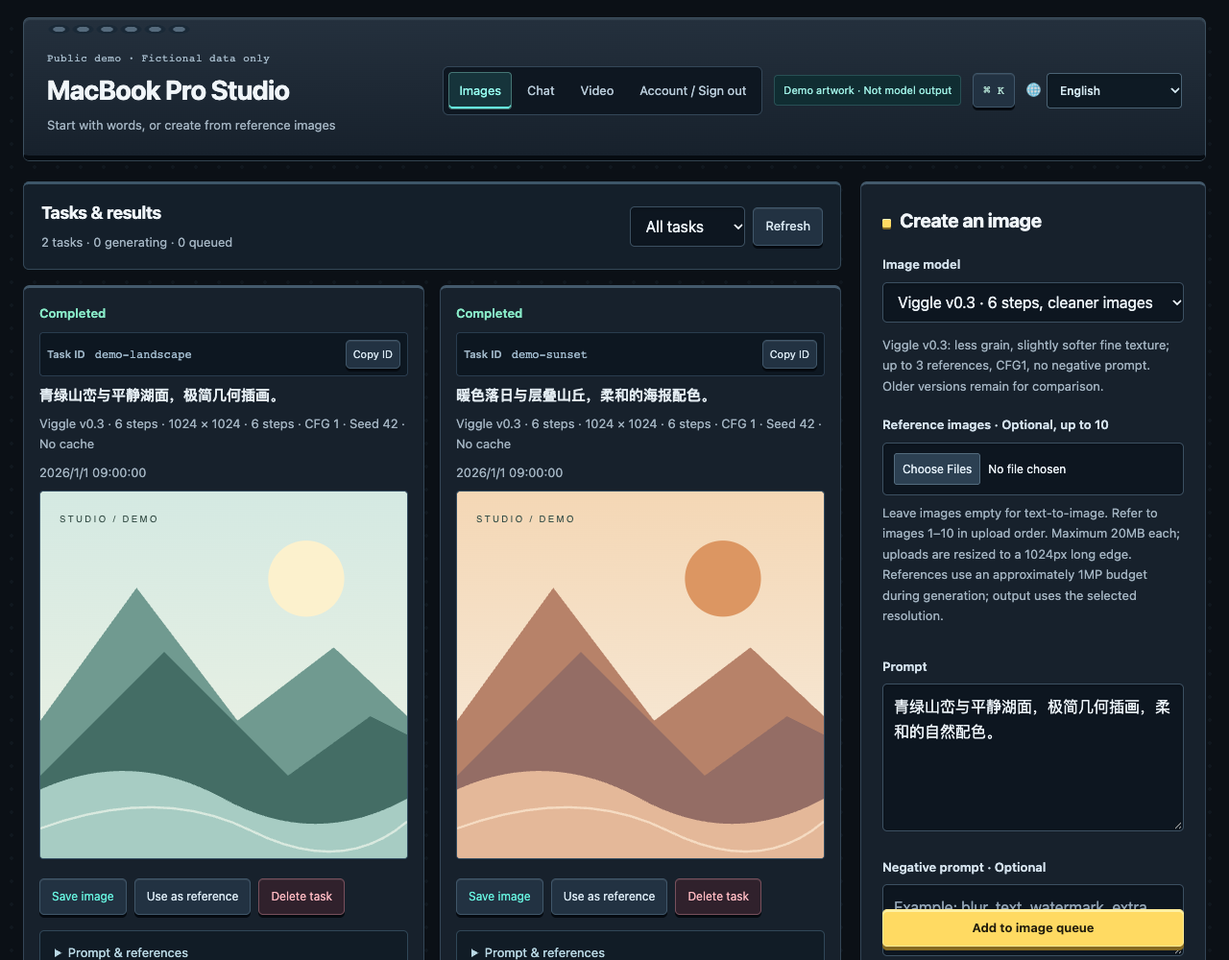
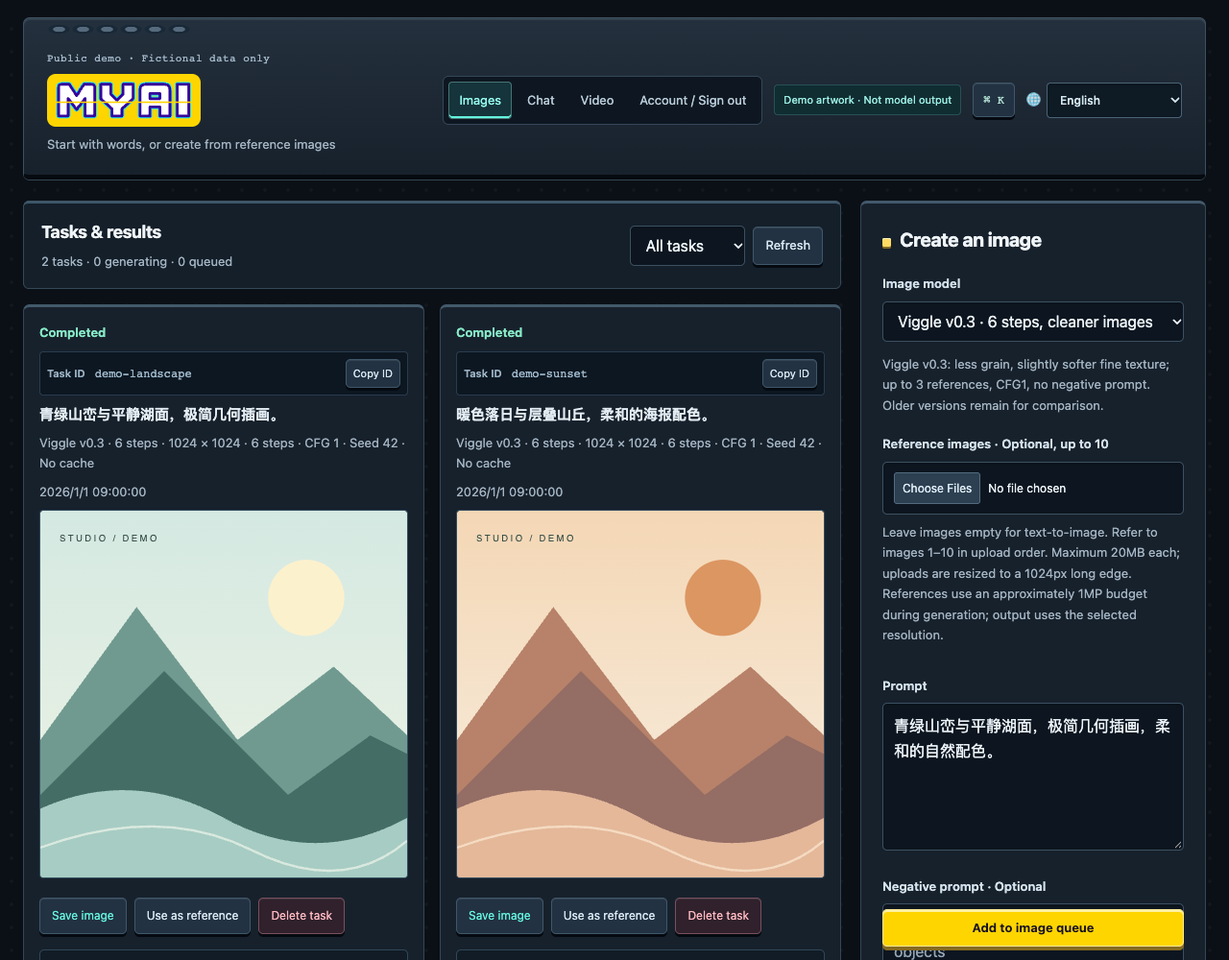
Publish MYAI branding and refreshed studio previews

diff --git a/src/video_editor.html b/src/video_editor.html
@@ -1,5 +1,5 @@
-<!doctype html><html lang="zh"><head><meta charset="utf-8"><meta name="viewport" content="width=device-width,initial-scale=1"><title>macbook pro工作室</title><style>
+<!doctype html><html lang="zh"><head><meta charset="utf-8"><meta name="viewport" content="width=device-width,initial-scale=1"><title>MYAI</title><style>
 :root{font:16px -apple-system,BlinkMacSystemFont,"Segoe UI",sans-serif;color:#23352d;background:#f4f5f0}*{box-sizing:border-box}body{margin:0}header{max-width:1440px;margin:32px auto 24px;padding:0 28px;display:flex;justify-content:space-between;align-items:center;gap:16px}h1{font-size:28px;margin:4px 0 8px}h2{font-size:20px;margin:0 0 16px}p{line-height:1.6}small,.muted{color:#64756c;font-size:13px}.badge{background:#e0ecdf;padding:8px 12px;border-radius:30px;font-size:13px}.header-actions{display:flex;align-items:center;gap:14px}.entry-nav{display:flex;gap:4px;padding:4px;border:1px solid #dce3da;background:#fff;border-radius:12px}.entry-link{color:#42564b;text-decoration:none;font-size:13px;padding:8px 12px;border-radius:8px;white-space:nowrap}.entry-link:hover{background:#eff3ec}.entry-link.active{background:#275c43;color:#fff}.layout{display:grid;grid-template-columns:370px 1fr;gap:24px;max-width:1440px;margin:auto;padding:0 28px 48px}.panel,.card{background:white;border:1px solid #dce3da;border-radius:18px;padding:22px}.panel{align-self:start}label{display:block;font-weight:600;font-size:14px;margin:20px 0 8px}input,textarea,select{width:100%;font:inherit;border:1px solid #cbd5ca;border-radius:9px;background:#fff;padding:11px;color:inherit}textarea{resize:vertical;line-height:1.5}button,.button{font:inherit;font-size:14px;cursor:pointer;border:1px solid #cbd5ca;border-radius:9px;padding:10px 14px;background:#fff;color:inherit;text-decoration:none;display:inline-block}button:hover,.button:hover{background:#eff3ec}button:disabled{opacity:.55;cursor:wait}.primary{background:#275c43;color:#fff;border:0;padding:14px;width:100%;font-weight:600;margin-top:22px}.primary:hover{background:#204d38}.danger{color:#a53737;border-color:#e7caca}.grid2{display:grid;grid-template-columns:1fr 1fr;gap:12px}.toolbar{display:flex;justify-content:space-between;align-items:center;gap:12px;flex-wrap:wrap;margin-bottom:16px}.toolbar h2{margin:0}.tasks{display:grid;grid-template-columns:repeat(auto-fill,minmax(270px,1fr));gap:16px;align-items:start}.card{padding:16px;min-width:0}.card h3{font-size:15px;line-height:1.5;margin:8px 0;overflow-wrap:anywhere}.card p{margin:8px 0}.card .preview{width:100%;max-height:400px;object-fit:contain;background:#f3f4f0;border-radius:10px;cursor:zoom-in}.actions{display:flex;gap:8px;flex-wrap:wrap;margin-top:12px}.state{font-size:13px;font-weight:600;color:#316047}.failed{color:#a53737}progress{width:100%;height:8px;accent-color:#356649}.refs{display:flex;gap:8px;flex-wrap:wrap;margin-top:12px}.ref{width:calc(33.333% - 6px);margin:0}.ref img{width:100%;height:88px;object-fit:cover;border-radius:8px;cursor:zoom-in}.ref figcaption{font-size:12px;margin:5px 0}.ref button{font-size:12px;padding:4px 8px}details{font-size:13px;margin-top:12px}summary{cursor:pointer}details pre{white-space:pre-wrap;word-break:break-word;font:inherit;background:#f4f5f0;padding:10px;border-radius:8px}.inline-confirm{margin-top:12px;border:1px solid #ebd4cf;background:#fff8f5;padding:12px;border-radius:10px;font-size:13px}.empty{padding:50px 20px;text-align:center;border:1px dashed #bbcabb;border-radius:14px;color:#64756c}.notice{font-size:13px;margin-top:12px;line-height:1.6;overflow-wrap:anywhere}dialog{border:0;border-radius:16px;padding:18px;max-width:95vw;max-height:95vh;background:#fff}dialog::backdrop{background:#14231de0}dialog img{display:block;max-width:85vw;max-height:80vh;object-fit:contain}dialog button{float:right;margin-bottom:10px}[hidden]{display:none!important}.selected{outline:2px solid #6d9979}#filter{width:auto;min-width:110px}#more{margin-top:20px}@media(max-width:850px){header{padding:0 16px;flex-wrap:wrap}.layout{grid-template-columns:1fr;padding:0 16px 32px}.panel{position:static}.tasks{grid-template-columns:repeat(auto-fill,minmax(260px,1fr))}.badge{display:none}}
-.task-identity{display:flex;flex-wrap:wrap;align-items:center;gap:6px;margin-top:10px}.task-identity label{margin:0;font-size:12px}.task-identity input{flex:1 1 270px;min-width:0;font:12px ui-monospace,monospace;padding:7px}.task-identity button{font-size:12px;padding:7px}#lightbox{width:94vw;overflow:hidden}.preview-toolbar{display:flex;align-items:center;gap:8px;flex-wrap:wrap;margin-bottom:12px}.preview-toolbar button{float:none;margin:0}.preview-toolbar [aria-pressed="true"]{background:#275c43;color:white}#preview-viewport{width:100%;height:75vh;overflow:auto;background:#f3f4f0}#large-image{width:auto;height:auto;max-width:100%;max-height:100%;margin:auto;object-fit:contain}#lightbox.actual-size #large-image{max-width:none;max-height:none;margin:0} video{width:100%;border-radius:10px;background:#f3f4f0}.prompt-text{white-space:pre-wrap;overflow-wrap:anywhere}@media(max-width:550px){.entry-link{padding:8px;font-size:12px}.header-actions{width:100%}}.settings{margin-top:22px;padding:16px;border:1px solid #dce3da;border-radius:14px;background:#f8faf6}.settings h2{font-size:17px}.resolution-grid{display:grid;grid-template-columns:1fr 1fr;gap:8px}.resolution-grid button{padding:12px 8px;text-align:center}.resolution-grid span{display:block;margin-top:6px;font-size:12px;color:#64756c}.selected-tier{border:2px solid #275c43!important;background:#eaf2e7!important}.setting-row{display:flex;align-items:center;justify-content:space-between;margin-top:18px;font-size:14px;font-weight:600}.setting-row input{width:38px;height:20px}#duration{padding:0;accent-color:#275c43}#duration-label{float:right;background:#e7eee3;border-radius:8px;padding:4px 8px;font-size:13px}#settings-error:empty{display:none}#reset-settings{margin-top:10px}</style><script src="/auth-guard.js"></script><link rel="stylesheet" href="/i18n.css"><script src="/i18n.js" defer></script><link rel="stylesheet" href="/studio-theme.css"><script src="/studio-shell.js" defer></script></head><body class="brick-studio studio-video">
-<header><div><small>MiniMax-H3 · 本机运行</small><h1>macbook pro工作室</h1><span class="muted">用文字生成一段动态小样</span></div><div class="header-actions"><nav class="entry-nav" aria-label="本地工具入口"><a class="entry-link" href="/edit">图片生成</a><a class="entry-link" href="/chat">文字对话</a><a class="entry-link active" aria-current="page" href="/video">视频生成</a><a class="entry-link" href="/account">账号 / 退出</a></nav><span class="badge">仅本机访问</span></div></header>
+.task-identity{display:flex;flex-wrap:wrap;align-items:center;gap:6px;margin-top:10px}.task-identity label{margin:0;font-size:12px}.task-identity input{flex:1 1 270px;min-width:0;font:12px ui-monospace,monospace;padding:7px}.task-identity button{font-size:12px;padding:7px}#lightbox{width:94vw;overflow:hidden}.preview-toolbar{display:flex;align-items:center;gap:8px;flex-wrap:wrap;margin-bottom:12px}.preview-toolbar button{float:none;margin:0}.preview-toolbar [aria-pressed="true"]{background:#275c43;color:white}#preview-viewport{width:100%;height:75vh;overflow:auto;background:#f3f4f0}#large-image{width:auto;height:auto;max-width:100%;max-height:100%;margin:auto;object-fit:contain}#lightbox.actual-size #large-image{max-width:none;max-height:none;margin:0} video{width:100%;border-radius:10px;background:#f3f4f0}.prompt-text{white-space:pre-wrap;overflow-wrap:anywhere}@media(max-width:550px){.entry-link{padding:8px;font-size:12px}.header-actions{width:100%}}.settings{margin-top:22px;padding:16px;border:1px solid #dce3da;border-radius:14px;background:#f8faf6}.settings h2{font-size:17px}.resolution-grid{display:grid;grid-template-columns:1fr 1fr;gap:8px}.resolution-grid button{padding:12px 8px;text-align:center}.resolution-grid span{display:block;margin-top:6px;font-size:12px;color:#64756c}.selected-tier{border:2px solid #275c43!important;background:#eaf2e7!important}.setting-row{display:flex;align-items:center;justify-content:space-between;margin-top:18px;font-size:14px;font-weight:600}.setting-row input{width:38px;height:20px}#duration{padding:0;accent-color:#275c43}#duration-label{float:right;background:#e7eee3;border-radius:8px;padding:4px 8px;font-size:13px}#settings-error:empty{display:none}#reset-settings{margin-top:10px}</style><script src="/auth-guard.js"></script><link rel="stylesheet" href="/i18n.css"><script src="/i18n.js" defer></script><link rel="stylesheet" href="/studio-theme.css"><script src="/studio-shell.js" defer></script><link rel="icon" href="/myai-icon.svg" type="image/svg+xml"></head><body class="brick-studio studio-video">
+<header><div><small>MiniMax-H3 · 本机运行</small><h1><img class="myai-logo" src="/myai-logo.svg" alt="MYAI" width="160" height="55" translate="no"></h1><span class="muted">用文字生成一段动态小样</span></div><div class="header-actions"><nav class="entry-nav" aria-label="本地工具入口"><a class="entry-link" href="/edit">图片生成</a><a class="entry-link" href="/chat">文字对话</a><a class="entry-link active" aria-current="page" href="/video">视频生成</a><a class="entry-link" href="/account">账号 / 退出</a></nav><span class="badge">仅本机访问</span></div></header>
 <main class="layout"><section class="panel"><h2>创建视频</h2><details class="studio-spec"><summary>官方规格与本机实验</summary><aside id="official-spec" class="notice"><strong>官方规格与本机实验</strong><p>MiniMax H3官方：4–15秒，默认短边768像素，24fps，32kHz立体声。官方推荐的ComfyUI基础流程：20步、res_multistep / simple；FL2VA短小样默认4步Euler，Ref2VA使用20步res_multistep；4B编码器与低分辨率结果不代表完整官方质量。</p><p>当前已装FL2VA：0张文生视频，1张首帧或尾帧，2张首尾帧。Ref2VA是另一个模型，最多9张参考图（不是10张），独立安装并校验后可在下方选择；首尾帧与多参考图分开使用。</p><p>官方编码器为Qwen3-VL-32B；本机使用4B + ClipProj社区替代方案。496×864来自界面参考图，不是官方768p；15秒本机实测未通过。官方2K再生成模块未开源，本页未实现。</p><a href="https://github.com/MiniMax-AI/MiniMax-H3#system-overview" target="_blank" rel="noreferrer">MiniMax官方规格</a> · <a href="https://docs.comfy.org/tutorials/video/minimax/minimax-h3" target="_blank" rel="noreferrer">官方推荐的ComfyUI教程</a></aside></details><form id="form"><label for="prompt">视频提示词</label><textarea id="prompt" rows="6" required maxlength="1500" placeholder="描述主体、动作、场景和镜头。例如：A red ball slowly rolls across a plain wooden table. Locked camera, soft daylight, no text."></textarea><p class="muted">首轮建议使用简短英文动作描述；中文效果尚未单独验证。</p><section class="settings" aria-label="视频设置"><h2>视频设置</h2><label for="ratio">视频比例</label><select id="ratio"><option value="1:1">1:1 · 方形</option><option value="16:9">16:9 · 横屏</option><option value="21:9">21:9 · 宽银幕</option><option value="4:3">4:3 · 横幅</option><option value="3:4">3:4 · 竖幅</option><option value="9:16">9:16 · 竖屏</option></select><label>分辨率档位</label><div class="resolution-grid"><button type="button" class="resolution-choice selected-tier" data-resolution="sample" aria-pressed="true">小样<span id="sample-pixels">256 × 256</span></button><button type="button" class="resolution-choice" data-resolution="standard" aria-pressed="false">参考图标准<span id="standard-pixels">656 × 656</span></button><button type="button" class="resolution-choice" data-resolution="hd" aria-pressed="false" disabled>HD · 已测小样<span>1280×736 · 16:9 / 0.92秒 / 无声</span></button><button type="button" disabled>Full HD<span>暂未验证，尚未开放</span></button></div><p id="pixels-note" class="muted"></p><label for="duration">视频时长 <output id="duration-label" for="duration">0.92 秒</output></label><input id="duration" type="range" min="0" max="7" step="1" value="0"><p id="frames-note" class="muted"></p><p id="settings-error" class="notice failed" role="status"></p><div class="setting-row"><span>音频</span><input id="audio" type="checkbox" role="switch" aria-label="生成原生音频"></div><p class="muted">音频开放1:1小样及496×864标准竖屏的0.92秒短例，默认关闭；音效质量与动作同步仍需听审。15秒标准竖屏带音频已实测未通过，触发新增交换4GiB保护，当前禁用；低负载档单列为小样。30秒不开放。HD仅开放16:9、0.92秒无声小样，实测约5分9秒；1280×736为模型32像素对齐尺寸。</p><div class="setting-row"><span>隐私</span><span class="muted">本机计算与保存</span></div><p class="muted">提示词与视频不上传外部服务；无需付费。本功能仅能在这台Mac访问。</p><button id="reset-settings" type="button">↶ 重置设置</button></section><label for="model-variant">视频模型</label><select id="model-variant"><option value="fl2va">FL2VA · 首尾帧（最多2张）</option><option value="ref2va">Ref2VA · 多参考图（最多9张）</option></select><p id="model-status" class="notice" role="status"></p><div id="keyframe-panel"><label>参考图 · 首尾帧（可选，最多2张）</label><p class="muted">首帧决定视频起始画面，尾帧决定结束画面；可只选其中一张。不是多图角色参考模式。建议图片与输出比例一致：模型首帧拉伸、尾帧居中裁切。支持PNG/JPEG/WebP，单张最多10MB，上传前缩至最长边2048。</p><div class="grid2"><div><label for="first-frame">首帧</label><input id="first-frame" type="file" accept="image/png,image/jpeg,image/webp"><img id="first-preview" alt="首帧预览" style="width:100%" hidden><button type="button" id="remove-first">移除首帧</button></div><div><label for="last-frame">尾帧</label><input id="last-frame" type="file" accept="image/png,image/jpeg,image/webp"><img id="last-preview" alt="尾帧预览" style="width:100%" hidden><button type="button" id="remove-last">移除尾帧</button></div></div><button type="button" id="swap-refs">交换首尾</button> <button type="button" id="clear-refs">清空参考图</button></div><div id="multi-panel" hidden><label for="multi-refs">多参考图（最多9张）</label><input id="multi-refs" type="file" accept="image/png,image/jpeg,image/webp" multiple><p class="muted">按排列顺序对应 &lt;Picture 1&gt; 至 &lt;Picture 9&gt;，可在提示词中指定人物、物品或风格。参考图按输出面积缩小以节约内存。已完成9图、256×256、22帧（0.92秒）、20步无声测试，约5分52秒。样片为同一红球场景的9张图，仍有形变；不同人物身份保持、音频及长视频组合尚未验收。</p><div id="multi-previews" class="refs"></div><button id="clear-multi" type="button">清空多参考图</button></div><p id="refs-status" class="notice" role="status"></p><label for="seed">随机种子</label><input id="seed" type="number" min="0" max="2147483647" value="42" required><button id="submit" class="primary" aria-describedby="submit-reason">加入视频队列</button><p id="submit-reason" class="notice failed" role="status" aria-live="polite"></p><p id="status" class="notice" role="status" aria-live="polite"></p></form><p class="muted">视频与图文计算串行运行，最多3个待处理视频。仅当本任务临时卸载了原本已加载的空闲文字模型，结束后才恢复；原本未加载的文字模型不会自动加载。启动需至少56GiB可用内存；运行时保留16GiB并监测交换增长。不同模型、参考图数量和尺寸耗时不同；Ref2VA九图短例实测约5分52秒，不代表长片耗时。</p></section><section><div class="toolbar"><div><h2>任务与结果</h2><p id="counts" class="muted">正在读取…</p></div><div><select id="video-filter" aria-label="筛选视频任务" style="width:auto"><option value="all">全部任务</option><option value="completed">已完成</option><option value="active">进行中</option><option value="failed">失败 / 已停止</option></select><button id="refresh">刷新</button></div></div><p id="load-error" class="notice failed" role="status"></p><div id="tasks" class="tasks"></div></section></main><script type="module" src="/video.js"></script></body></html>

diff --git a/src/image_editor.html b/src/image_editor.html
@@ -1,9 +1,9 @@
 <!doctype html>
-<html lang="zh"><head><meta charset="utf-8"><meta name="viewport" content="width=device-width,initial-scale=1"><title>macbook pro工作室</title>
+<html lang="zh"><head><meta charset="utf-8"><meta name="viewport" content="width=device-width,initial-scale=1"><title>MYAI</title>
 <style>
 :root{font:16px -apple-system,BlinkMacSystemFont,"Segoe UI",sans-serif;color:#23352d;background:#f4f5f0}*{box-sizing:border-box}body{margin:0}header{max-width:1440px;margin:32px auto 24px;padding:0 28px;display:flex;justify-content:space-between;align-items:center;gap:16px}h1{font-size:28px;margin:4px 0 8px}h2{font-size:20px;margin:0 0 16px}p{line-height:1.6}small,.muted{color:#64756c;font-size:13px}.badge{background:#e0ecdf;padding:8px 12px;border-radius:30px;font-size:13px}.header-actions{display:flex;align-items:center;gap:14px}.entry-nav{display:flex;gap:4px;padding:4px;border:1px solid #dce3da;background:#fff;border-radius:12px}.entry-link{color:#42564b;text-decoration:none;font-size:13px;padding:8px 12px;border-radius:8px;white-space:nowrap}.entry-link:hover{background:#eff3ec}.entry-link.active{background:#275c43;color:#fff}.layout{display:grid;grid-template-columns:370px 1fr;gap:24px;max-width:1440px;margin:auto;padding:0 28px 48px}.panel,.card{background:white;border:1px solid #dce3da;border-radius:18px;padding:22px}.panel{align-self:start}label{display:block;font-weight:600;font-size:14px;margin:20px 0 8px}input,textarea,select{width:100%;font:inherit;border:1px solid #cbd5ca;border-radius:9px;background:#fff;padding:11px;color:inherit}textarea{resize:vertical;line-height:1.5}button,.button{font:inherit;font-size:14px;cursor:pointer;border:1px solid #cbd5ca;border-radius:9px;padding:10px 14px;background:#fff;color:inherit;text-decoration:none;display:inline-block}button:hover,.button:hover{background:#eff3ec}button:disabled{opacity:.55;cursor:wait}.primary{background:#275c43;color:#fff;border:0;padding:14px;width:100%;font-weight:600;margin-top:22px}.primary:hover{background:#204d38}.danger{color:#a53737;border-color:#e7caca}.grid2{display:grid;grid-template-columns:1fr 1fr;gap:12px}.toolbar{display:flex;justify-content:space-between;align-items:center;gap:12px;flex-wrap:wrap;margin-bottom:16px}.toolbar h2{margin:0}.tasks{display:grid;grid-template-columns:repeat(auto-fill,minmax(270px,1fr));gap:16px;align-items:start}.card{padding:16px;min-width:0}.card h3{font-size:15px;line-height:1.5;margin:8px 0;overflow-wrap:anywhere}.card p{margin:8px 0}.card .preview{width:100%;max-height:400px;object-fit:contain;background:#f3f4f0;border-radius:10px;cursor:zoom-in}.actions{display:flex;gap:8px;flex-wrap:wrap;margin-top:12px}.state{font-size:13px;font-weight:600;color:#316047}.failed{color:#a53737}progress{width:100%;height:8px;accent-color:#356649}.refs{display:flex;gap:8px;flex-wrap:wrap;margin-top:12px}.ref{width:calc(33.333% - 6px);margin:0}.ref img{width:100%;height:88px;object-fit:cover;border-radius:8px;cursor:zoom-in}.ref figcaption{font-size:12px;margin:5px 0}.ref button{font-size:12px;padding:4px 8px}details{font-size:13px;margin-top:12px}summary{cursor:pointer}details pre{white-space:pre-wrap;word-break:break-word;font:inherit;background:#f4f5f0;padding:10px;border-radius:8px}.inline-confirm{margin-top:12px;border:1px solid #ebd4cf;background:#fff8f5;padding:12px;border-radius:10px;font-size:13px}.empty{padding:50px 20px;text-align:center;border:1px dashed #bbcabb;border-radius:14px;color:#64756c}.notice{font-size:13px;margin-top:12px;line-height:1.6;overflow-wrap:anywhere}dialog{border:0;border-radius:16px;padding:18px;max-width:95vw;max-height:95vh;background:#fff}dialog::backdrop{background:#14231de0}dialog img{display:block;max-width:85vw;max-height:80vh;object-fit:contain}dialog button{float:right;margin-bottom:10px}[hidden]{display:none!important}.selected{outline:2px solid #6d9979}#filter{width:auto;min-width:110px}#more{margin-top:20px}@media(max-width:850px){header{padding:0 16px;flex-wrap:wrap}.layout{grid-template-columns:1fr;padding:0 16px 32px}.panel{position:static}.tasks{grid-template-columns:repeat(auto-fill,minmax(260px,1fr))}.badge{display:none}}
-.task-identity{display:flex;flex-wrap:wrap;align-items:center;gap:6px;margin-top:10px}.task-identity label{margin:0;font-size:12px}.task-identity input{flex:1 1 270px;min-width:0;font:12px ui-monospace,monospace;padding:7px}.task-identity button{font-size:12px;padding:7px}#lightbox{width:94vw;overflow:hidden}.preview-toolbar{display:flex;align-items:center;gap:8px;flex-wrap:wrap;margin-bottom:12px}.preview-toolbar button{float:none;margin:0}.preview-toolbar [aria-pressed="true"]{background:#275c43;color:white}#preview-viewport{width:100%;height:75vh;overflow:auto;background:#f3f4f0}#large-image{width:auto;height:auto;max-width:100%;max-height:100%;margin:auto;object-fit:contain}#lightbox.actual-size #large-image{max-width:none;max-height:none;margin:0}</style><script src="/auth-guard.js"></script><link rel="stylesheet" href="/i18n.css"><script src="/i18n.js" defer></script><link rel="stylesheet" href="/studio-theme.css"><script src="/studio-shell.js" defer></script></head><body class="brick-studio studio-image">
-<header><div><small>多模型 · 本机运行</small><h1>macbook pro工作室</h1><span class="muted">从文字开始，或参考图片继续创作</span></div><div class="header-actions"><nav class="entry-nav" aria-label="本地工具入口"><a class="entry-link active" aria-current="page" href="/edit">图片生成</a><a class="entry-link" href="/chat">文字对话</a><a class="entry-link" href="/video">视频生成</a><a class="entry-link" href="/account">账号 / 退出</a></nav><span class="badge">图片与任务保存在你的电脑</span></div></header>
+.task-identity{display:flex;flex-wrap:wrap;align-items:center;gap:6px;margin-top:10px}.task-identity label{margin:0;font-size:12px}.task-identity input{flex:1 1 270px;min-width:0;font:12px ui-monospace,monospace;padding:7px}.task-identity button{font-size:12px;padding:7px}#lightbox{width:94vw;overflow:hidden}.preview-toolbar{display:flex;align-items:center;gap:8px;flex-wrap:wrap;margin-bottom:12px}.preview-toolbar button{float:none;margin:0}.preview-toolbar [aria-pressed="true"]{background:#275c43;color:white}#preview-viewport{width:100%;height:75vh;overflow:auto;background:#f3f4f0}#large-image{width:auto;height:auto;max-width:100%;max-height:100%;margin:auto;object-fit:contain}#lightbox.actual-size #large-image{max-width:none;max-height:none;margin:0}</style><script src="/auth-guard.js"></script><link rel="stylesheet" href="/i18n.css"><script src="/i18n.js" defer></script><link rel="stylesheet" href="/studio-theme.css"><script src="/studio-shell.js" defer></script><link rel="icon" href="/myai-icon.svg" type="image/svg+xml"></head><body class="brick-studio studio-image">
+<header><div><small>多模型 · 本机运行</small><h1><img class="myai-logo" src="/myai-logo.svg" alt="MYAI" width="160" height="55" translate="no"></h1><span class="muted">从文字开始，或参考图片继续创作</span></div><div class="header-actions"><nav class="entry-nav" aria-label="本地工具入口"><a class="entry-link active" aria-current="page" href="/edit">图片生成</a><a class="entry-link" href="/chat">文字对话</a><a class="entry-link" href="/video">视频生成</a><a class="entry-link" href="/account">账号 / 退出</a></nav><span class="badge">图片与任务保存在你的电脑</span></div></header>
 <main class="layout"><section class="panel"><h2>创建图片</h2><form id="form">
 <label for="model-id">生成模型</label><select id="model-id"><option value="qwen-image-2.1">Qwen-Image-2.1 · 生图 / 多图编辑</option><option value="wai-illustrious-v17">WAI-Illustrious SDXL v17 · 插画文生图</option><option value="viggle-qwen-image-2.1-4step" disabled>Viggle Turbo Qwen · 4步版（v0.1）</option><option value="viggle-qwen-image-2.1-v0.2.1" selected disabled>Viggle Turbo Qwen · 6步版（v0.2.1预览，安装中）</option><option value="viggle-qwen-image-2.1-v0.3" disabled>Viggle v0.3 · 6步干净画面（安装中）</option><option value="viggle-qwen-image-2.1-v0.3-9step" disabled>Viggle v0.3 · 9步细节增强（安装中）</option></select><p id="model-note" class="muted">Qwen 支持最多10张参考图。</p>
 <label for="file">参考图片 · 可选，最多 10 张</label><input id="file" type="file" accept="image/png,image/jpeg,image/webp" multiple>

diff --git a/src/local_chat.html b/src/local_chat.html
@@ -3,7 +3,7 @@
 <head>
   <meta charset="utf-8">
   <meta name="viewport" content="width=device-width,initial-scale=1">
-  <title>macbook pro工作室 · 文字对话</title>
+  <title>MYAI</title>
   <style>
     :root{font:16px -apple-system,BlinkMacSystemFont,"Segoe UI",sans-serif;color:#202b25;background:#f5f6f3}*{box-sizing:border-box}body{margin:0;min-height:100vh;display:flex;flex-direction:column}
     header{height:64px;background:#fff;border-bottom:1px solid #e0e5df;padding:0 max(20px,calc((100vw - 1080px)/2));display:flex;align-items:center;justify-content:space-between;gap:16px}header strong{font-size:16px}a,button{color:#275c43}header a{font-size:14px}header .entry-nav{display:flex;gap:4px;padding:4px;border:1px solid #dce3da;background:#fff;border-radius:12px}header .entry-link{color:#42564b;text-decoration:none;font-size:13px;padding:8px 12px;border-radius:8px;white-space:nowrap}header .entry-link:hover{background:#eff3ec}header .entry-link.active{background:#275c43;color:#fff}
@@ -11,9 +11,9 @@
     .composer{position:sticky;bottom:0;padding:12px 0 4px;background:#f5f6f3}.composer-box{border:1px solid #cfd8ce;border-radius:16px;background:#fff;padding:10px;box-shadow:0 4px 20px #24382d0b}.composer textarea{border:0;outline:0;resize:vertical;min-height:56px;max-height:200px;width:100%;font:inherit;line-height:1.5;padding:8px;color:inherit}.controls{display:flex;align-items:center;justify-content:space-between;gap:12px;padding:4px 2px 0}.hint,.status{font-size:12px;color:#6a786f}.options{display:flex;align-items:center;gap:8px;min-width:0}.options label{font-size:12px;color:#6a786f;white-space:nowrap}.options select{font:inherit;font-size:12px;color:#34483b;border:1px solid #d2dbd1;background:#fff;border-radius:8px;padding:7px 8px;max-width:180px}.buttons{display:flex;gap:8px}button{font:inherit;cursor:pointer;border:1px solid #d2dbd1;background:white;border-radius:9px;padding:8px 12px}button:hover{background:#f0f4ef}button[hidden]{display:none}.send{background:#275c43;color:#fff;border:0}.send:hover{background:#204d38}.send:disabled,.stop:disabled{opacity:.5;cursor:wait}.stop{color:#a53737;border-color:#e6caca}.stop:hover{background:#fff2f2}.error{color:#a53737}.stopped{color:#68776d}.empty{font-size:14px;color:#68776d;text-align:center;padding:12px}.foot{font-size:11px;color:#869188;text-align:center;padding:8px 0}
     @media(max-width:720px){header{height:auto;min-height:64px;flex-wrap:wrap;padding:10px 16px}header strong{font-size:14px}main{padding:18px 12px 10px}.layout{grid-template-columns:1fr;gap:12px}.history-panel{position:static;padding:11px}.history-list{max-height:190px}.messages{min-height:160px}.controls{align-items:flex-start;flex-wrap:wrap}.options{flex-wrap:wrap}.options select{max-width:150px}.bubble{padding:11px 13px}}
   </style>
-<script src="/auth-guard.js"></script><link rel="stylesheet" href="/i18n.css"><script src="/i18n.js" defer></script><link rel="stylesheet" href="/studio-theme.css"><script src="/studio-shell.js" defer></script></head>
+<script src="/auth-guard.js"></script><link rel="stylesheet" href="/i18n.css"><script src="/i18n.js" defer></script><link rel="stylesheet" href="/studio-theme.css"><script src="/studio-shell.js" defer></script><link rel="icon" href="/myai-icon.svg" type="image/svg+xml"></head>
 <body class="brick-studio studio-chat">
-  <header><strong>macbook pro工作室</strong><nav class="entry-nav" aria-label="本地工具入口"><a class="entry-link" href="/edit">图片生成</a><a class="entry-link active" aria-current="page" href="/chat">文字对话</a><a class="entry-link" href="/video">视频生成</a><a class="entry-link" href="/account">账号 / 退出</a></nav></header>
+  <header><strong><img class="myai-logo" src="/myai-logo.svg" alt="MYAI" width="160" height="55" translate="no"></strong><nav class="entry-nav" aria-label="本地工具入口"><a class="entry-link" href="/edit">图片生成</a><a class="entry-link active" aria-current="page" href="/chat">文字对话</a><a class="entry-link" href="/video">视频生成</a><a class="entry-link" href="/account">账号 / 退出</a></nav></header>
   <main>
     <div class="intro"><h1>有什么想聊的？</h1><p>由 LM Studio 在本机运行。对话直接发送到本机模型，不经过云端服务。</p></div>
     <div class="layout">

diff --git a/src/studio_account.html b/src/studio_account.html
@@ -1,5 +1,5 @@
-<!doctype html><html lang="zh-CN"><head><meta charset="utf-8"><meta name="viewport" content="width=device-width,initial-scale=1"><title>账号 · macbook pro工作室</title><link rel="stylesheet" href="/account.css"><script src="/account.js" defer></script><link rel="stylesheet" href="/i18n.css"><script src="/i18n.js" defer></script><link rel="stylesheet" href="/studio-theme.css"><script src="/studio-shell.js" defer></script></head><body class="brick-studio studio-account"><main>
-<header><small>macbook pro工作室</small><h1 id="title">账号</h1><nav><a href="/edit">图片生成</a><a href="/chat">文字对话</a><a href="/video">视频生成</a></nav></header>
+<!doctype html><html lang="zh-CN"><head><meta charset="utf-8"><meta name="viewport" content="width=device-width,initial-scale=1"><title>MYAI</title><link rel="stylesheet" href="/account.css"><script src="/account.js" defer></script><link rel="stylesheet" href="/i18n.css"><script src="/i18n.js" defer></script><link rel="stylesheet" href="/studio-theme.css"><script src="/studio-shell.js" defer></script><link rel="icon" href="/myai-icon.svg" type="image/svg+xml"></head><body class="brick-studio studio-account"><main>
+<header><small><img class="myai-logo" src="/myai-logo.svg" alt="MYAI" width="160" height="55" translate="no"></small><h1 id="title">账号</h1><nav><a href="/edit">图片生成</a><a href="/chat">文字对话</a><a href="/video">视频生成</a></nav></header>
 <p id="notice" role="status" aria-live="polite">正在读取账号状态…</p>
 <section id="login-section" hidden><form id="login-form"><label>用户名<input name="username" required pattern="[A-Za-z0-9_-]{3,32}" maxlength="32" autocomplete="username" autocapitalize="none" spellcheck="false"></label><label>密码<input name="password" type="password" required maxlength="128" autocomplete="current-password"></label><button class="primary" type="submit" id="login-submit">登录</button></form><p id="setup-note" hidden>首次创建只能在运行服务的 Mac 上，通过 127.0.0.1 地址进行。密码至少12个字符。</p></section>
 <section id="account-section" hidden><h2 id="identity"></h2><p>图片、视频及服务端任务为共享工作室数据，已登录账号可共同查看和操作。</p><button id="logout">退出登录</button><h2>修改我的密码</h2><form id="password-form"><label>当前密码<input type="password" name="oldPassword" autocomplete="current-password" required maxlength="128"></label><label>新密码<input type="password" name="password" autocomplete="new-password" required minlength="12" maxlength="128"></label><button type="submit">修改密码并退出所有设备</button></form></section>

diff --git a/src/studio_theme.css b/src/studio_theme.css
@@ -143,3 +143,9 @@ body.brick-studio{margin:0;min-height:100vh;color:#e7eef4;background:radial-grad
 @media(max-width:480px){.brick-studio .grid2{grid-template-columns:minmax(0,1fr)}.brick-studio :where(input,select,textarea){font-size:16px}.brick-studio .entry-nav{width:100%}.brick-studio .entry-link{flex:1 1 40%;text-align:center}.brick-studio .studio-language select{max-width:200px}.brick-studio .panel,.brick-studio .card{padding:16px}.brick-studio .toolbar>div{width:100%}.brick-studio .toolbar select{min-width:0;max-width:100%}.brick-studio .bubble{padding:12px;max-width:calc(100% - 38px)}.brick-studio .message{gap:8px}.brick-studio .resolution-grid{grid-template-columns:repeat(2,minmax(0,1fr))}.brick-studio .resolution-grid button{font-size:12px}.brick-studio.studio-account header{display:flex}.brick-studio.studio-account header small,.brick-studio.studio-account header h1{width:100%}.brick-studio.studio-account header nav{width:100%}.brick-studio .preview-toolbar{gap:7px}.brick-studio .preview-toolbar button{font-size:12px}.brick-studio .task-identity input{font-size:11px}}
 @media(pointer:coarse){.brick-studio :where(button,.button,summary,.entry-link,header nav a){min-height:44px}.brick-studio .ref button{min-height:40px}}
 @media(prefers-reduced-motion:reduce){.brick-studio *,.brick-studio *:before,.brick-studio *:after{animation:none!important;transition:none!important;scroll-behavior:auto!important}}
+
+/* Approved MYAI brand: warm yellow, white modular letters, violet/cyan edge. */
+.brick-studio .myai-logo{display:block;width:160px;height:auto;max-width:100%;border-radius:9px;object-fit:contain}
+.brick-studio header h1:has(.myai-logo){margin:5px 0}
+.brick-studio header>small:has(.myai-logo){display:block}
+.brick-studio #submit,.brick-studio button.primary{background:#ffd500;color:#161021}

diff --git a/README.md b/README.md
@@ -1,4 +1,9 @@
-# MacBook Pro Studio
+# MYAI
+
+![MYAI](src/myai_logo.svg)
+
+MYAI brings different AI models together in one local creative studio.
+
 
 **English** | [简体中文](README.zh-CN.md) | [🌐 All 33 languages](docs/i18n/README.md)
 
@@ -59,3 +64,9 @@ On the Mac running the service, open `http://127.0.0.1:1235/setup` to create the
 ## Viggle v0.3
 
 Separate six-step and nine-step detail modes are available, with the previous default retained. See [installation and validation](docs/viggle-v03.en.md) ([中文](docs/viggle-v03.md)). Download model weights separately on the target Mac.
+
+## Brand design
+
+![MYAI brand concepts](docs/images/myai-brand-scenarios.png)
+
+Brand application concepts; the interface screenshots above show the implemented product. The example domain is a placeholder.

diff --git a/README.zh-CN.md b/README.zh-CN.md
@@ -1,4 +1,9 @@
-# macbook pro工作室
+# MYAI
+
+![MYAI](src/myai_logo.svg)
+
+MYAI 将不同 AI 模型拼在一起，组成你的本地创作工作室。
+
 
 [English](README.md) | **简体中文** | [🌐 全部 33 种语言](docs/i18n/README.md)
 
@@ -59,3 +64,9 @@ Apple Silicon Mac 本地图像、文字和实验视频工作室。
 ## Viggle v0.3
 
 独立六步和九步细节模式已接入，保留旧版默认。安装及验证见 [Viggle v0.3](docs/viggle-v03.md)。模型权重需在本机单独下载。
+
+## 品牌设计
+
+![MYAI brand concepts](docs/images/myai-brand-scenarios.png)
+
+品牌应用概念图；上方界面截图为已实现的产品。示意域名仅为占位符。
